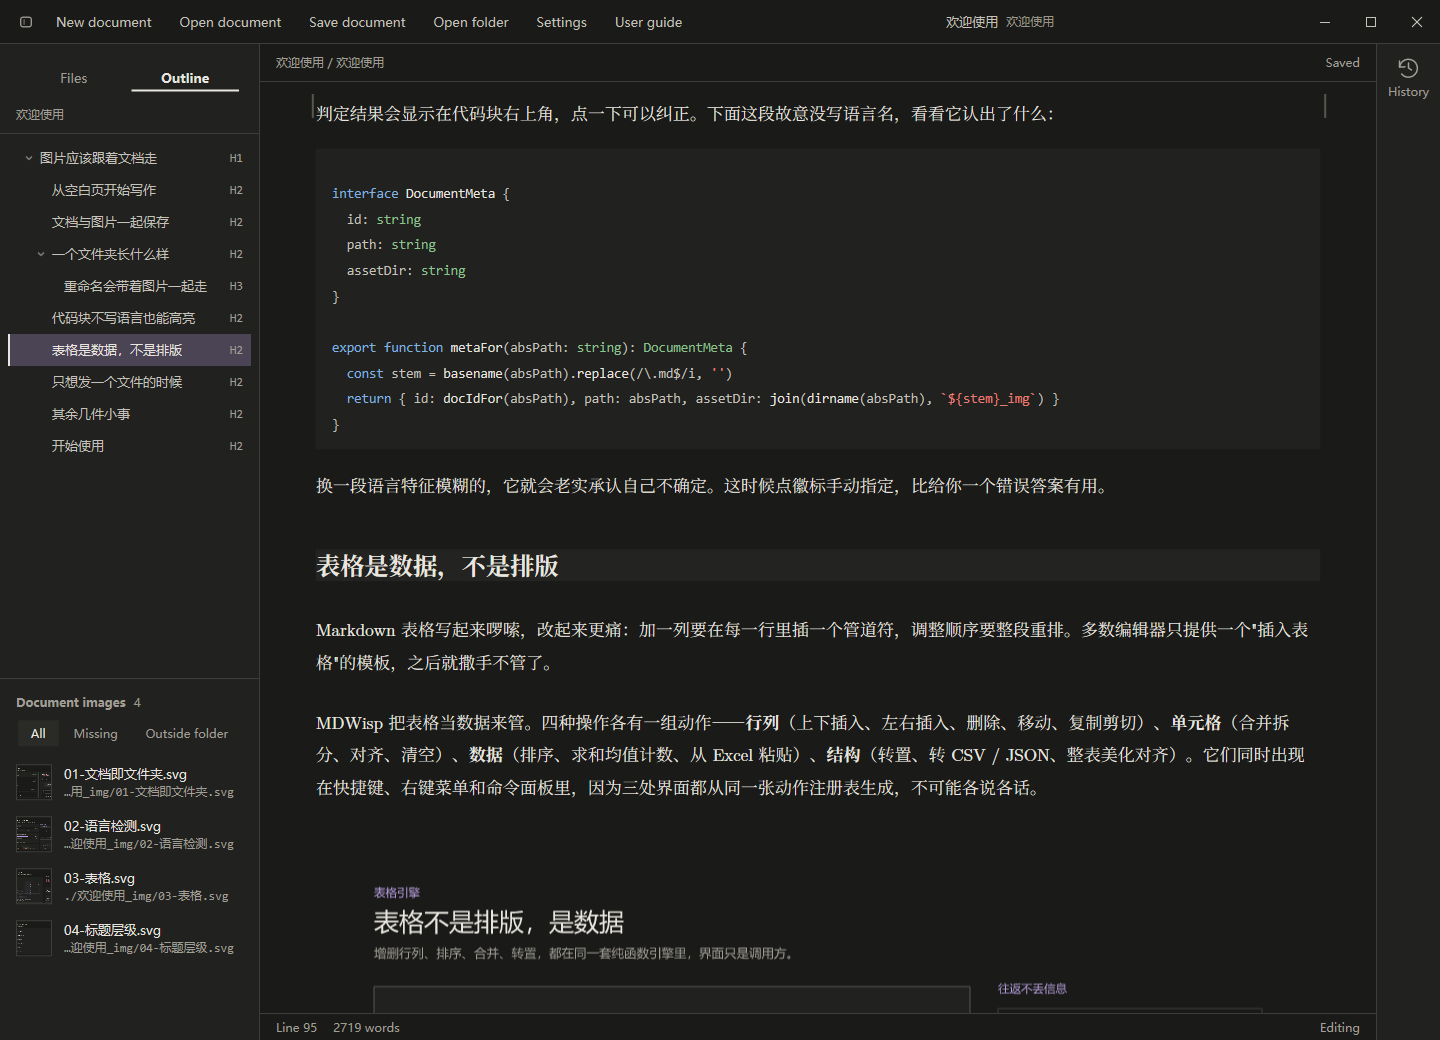
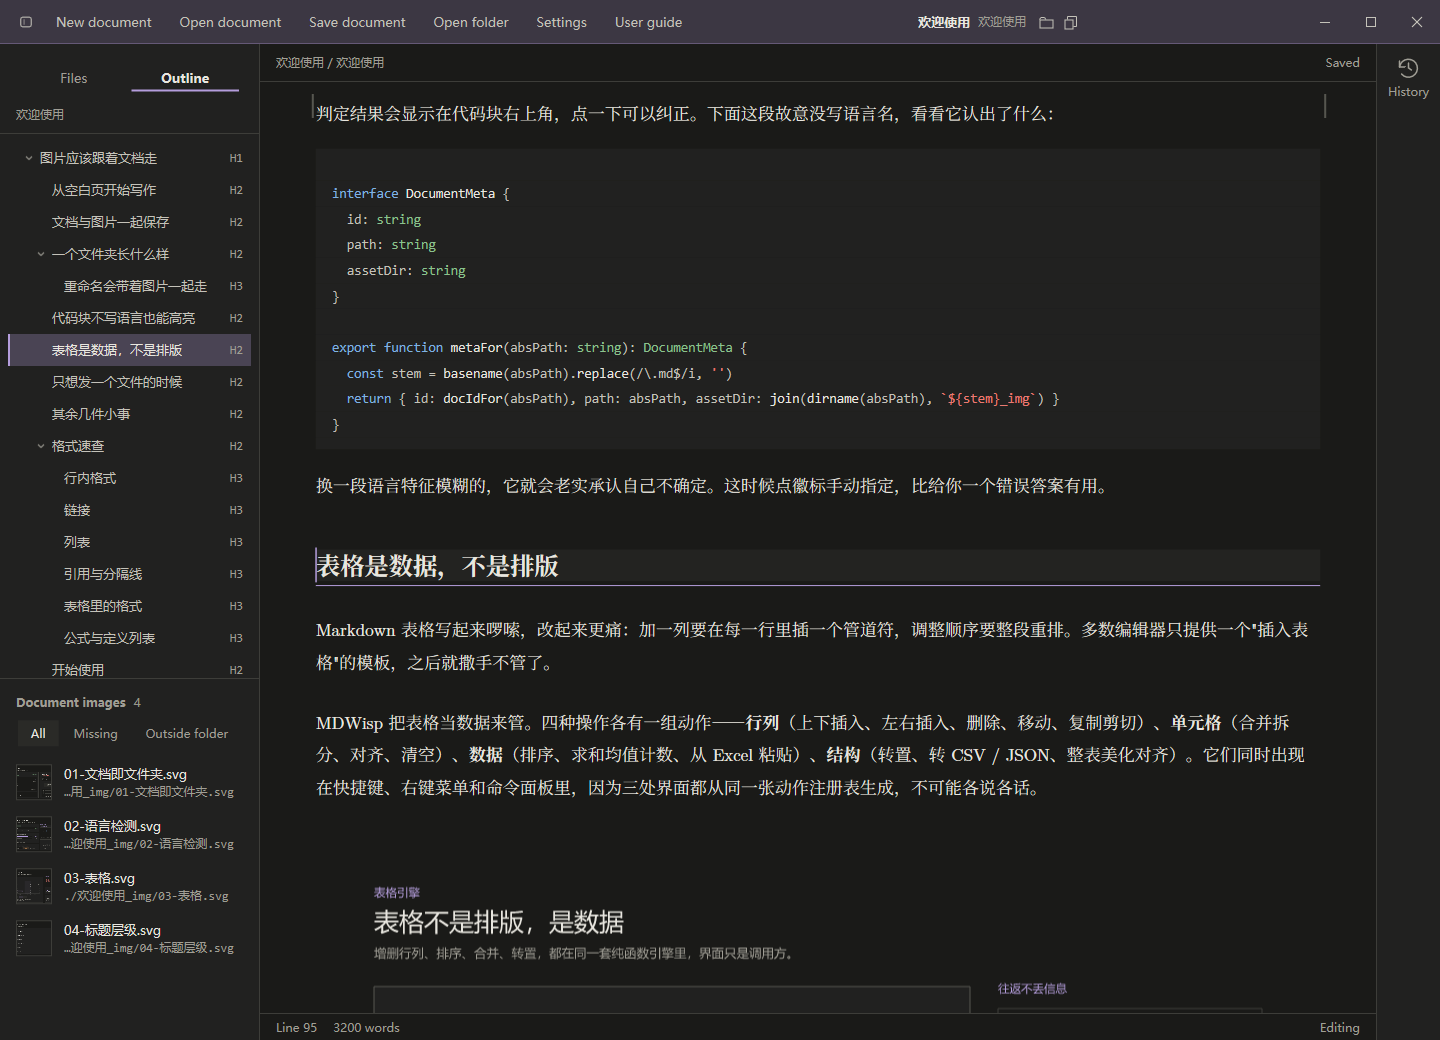
release: MDWisp 0.6.1
Version bump, changelog and new README screenshots taken from the bundled
welcome document, showing the accented title bar, outline and headings.

Changed region(s): [[0.0, 0.0, 1.0, 0.0615], [0.0312, 0.4, 0.0938, 0.6462], [0.2188, 0.9846, 0.25, 1.0]]

diff --git a/CHANGELOG.md b/CHANGELOG.md
@@ -1,5 +1,18 @@
 # 更新记录
 
+## 0.6.1 · 2026-10-30
+
+- 强调色用到更多地方：一级标题带淡色底和页边竖条，二级标题下有一条强调色细线；引用线、列表符号、行内代码、未勾选的任务框和表格顶线用强调色；侧栏、命令面板、历史和设置里选中的项用强调色标出；标题栏带一点强调色，文档名加粗。自定义强调色时这些一起变。
+- 标题栏文档名右侧新增两个小按钮：在资源管理器中显示当前文档、复制它的绝对路径（文档保存后出现）；命令面板里也有这两条命令。
+- 紧贴中文的裸网址和邮箱也会变成链接：`网站：https://a.cn。` 链接的是 `https://a.cn`，网址在第一个非 ASCII 字符处结束。HTML 导出同样识别裸网址；紧凑列表项里的网址和格式也能识别。
+- 编辑器里 H~2~O、x^2^ 显示为下标、上标，`$$ … $$` 公式段整体按公式样式显示。
+- 欢迎文档末尾新增格式速查，把每种链接、文内跳转和各类格式各写了一遍；英文欢迎文档补上了插图。
+- The accent reaches further: H1 sits on a faint band with a bar in the margin, H2 over an accent rule; quotes, list markers, inline code, open task boxes and a table's top rule use the accent; selected rows and tabs in the sidebar, palette, history and settings are marked in it; the title bar is tinted with it and the document name is bold. A custom accent changes all of them.
+- Two small title bar buttons after the document name show the document in File Explorer and copy its full path (once the document is saved); both are also palette commands.
+- Bare URLs and email addresses link even right against Chinese text: a URL ends at the first non-ASCII character, so Chinese punctuation after it stays out of the link. HTML export links bare URLs too, and URLs and formats in tight list items are found.
+- The editor shows H~2~O and x^2^ as sub- and superscripts and styles a `$$ … $$` paragraph as one formula.
+- The welcome documents end with a format sampler showing every link kind, in-document anchors and each format once; the English one gains its illustration.
+
 ## 0.6.0 · 2026-10-29
 
 - 界面和导出换成“纸”风格：暖白纸面、墨色文字、细线分隔、一个克制的葡萄紫强调色；导出的 HTML 不再有渐变标题底板，改为平直的标题线。欢迎文档的插图一并重绘。

diff --git a/README.md b/README.md
@@ -33,7 +33,7 @@ Since 0.5 MDWisp is a native Windows app written in Rust: the window appears in 
 
 ## Download and installation
 
-Download `MDWisp-0.6.0-setup.exe` from [Releases](https://github.com/ArthurLauCS/MDWisp/releases/latest), or build it yourself (see [Development](#development-and-verification)). It needs Windows 10 or later, x64. Installation offers English and Simplified Chinese, a directory choice and a desktop shortcut. It installs for the current user without administrator rights, and removes an installed 0.4.x version while keeping its settings and history.
+Download `MDWisp-0.6.1-setup.exe` from [Releases](https://github.com/ArthurLauCS/MDWisp/releases/latest), or build it yourself (see [Development](#development-and-verification)). It needs Windows 10 or later, x64. Installation offers English and Simplified Chinese, a directory choice and a desktop shortcut. It installs for the current user without administrator rights, and removes an installed 0.4.x version while keeping its settings and history.
 
 The installer is unsigned, so Windows SmartScreen may show "Windows protected your PC". Choose **More info → Run anyway**. macOS and Linux are not supported.
 

diff --git a/README.zh-CN.md b/README.zh-CN.md
@@ -37,7 +37,7 @@
 
 ## 下载与安装
 
-前往 **[Releases](https://github.com/ArthurLauCS/MDWisp/releases/latest)**，下载 `MDWisp-0.6.0-setup.exe`，也可自行构建（见[开发与验证](#开发与验证)）。安装时可以选择中英文、安装目录，并创建桌面快捷方式。按当前用户安装，不需要管理员权限；已装 0.4.x 时会先移除旧版，设置与历史记录保留。
+前往 **[Releases](https://github.com/ArthurLauCS/MDWisp/releases/latest)**，下载 `MDWisp-0.6.1-setup.exe`，也可自行构建（见[开发与验证](#开发与验证)）。安装时可以选择中英文、安装目录，并创建桌面快捷方式。按当前用户安装，不需要管理员权限；已装 0.4.x 时会先移除旧版，设置与历史记录保留。
 
 需要 **Windows 10 及以上 x64**；不支持 macOS 和 Linux。安装包暂未进行代码签名，Windows SmartScreen 可能提示「Windows 已保护你的电脑」，点击 **更多信息 → 仍要运行** 即可。
 
